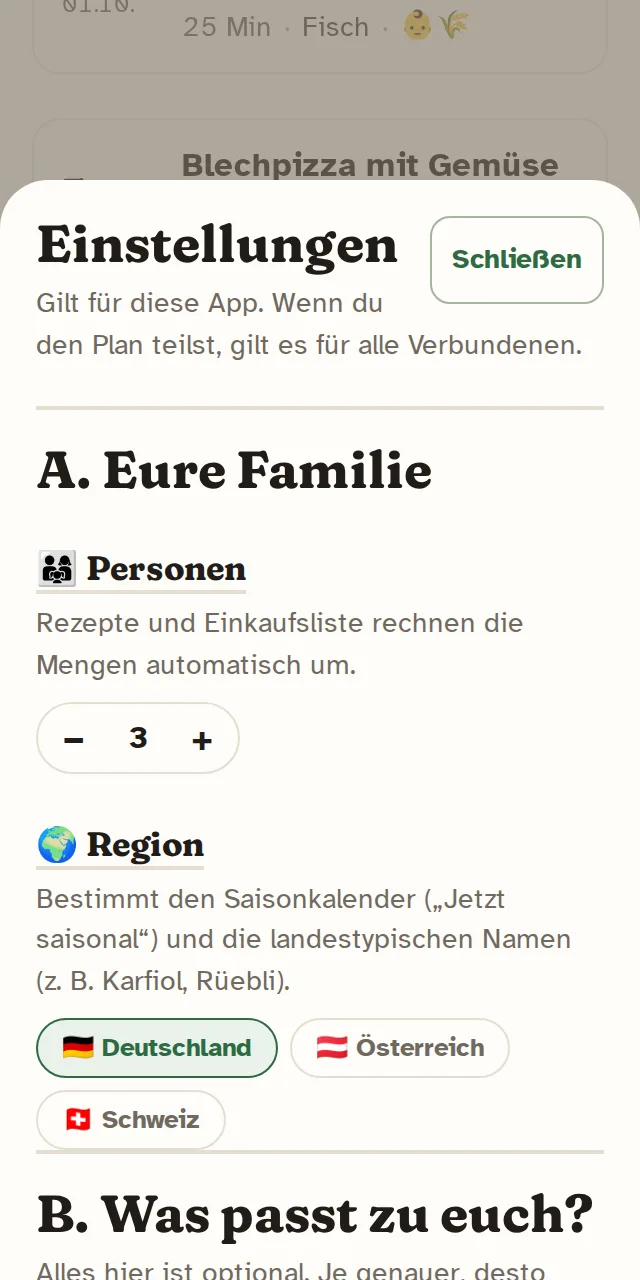
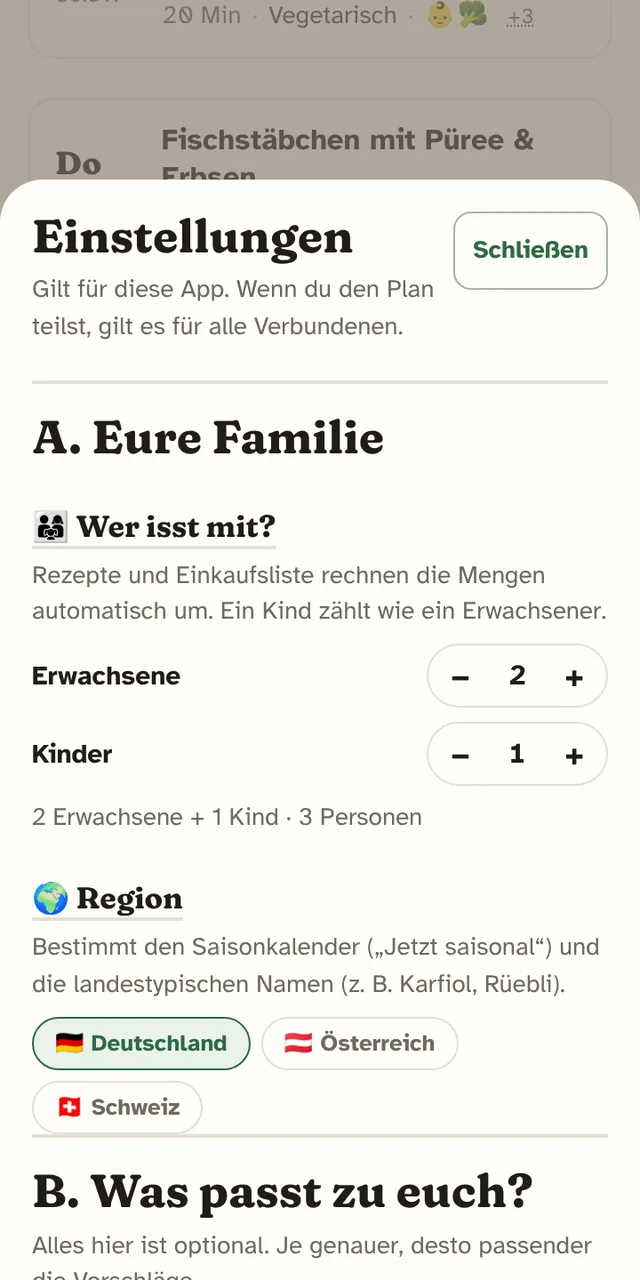
Familie: Erwachsene/Kinder getrennt, Link-Warnung, beschriftete Symbole, Speicherstatus, Beispielwoche – v1.7.0
- Einstellungen und Schnellstart: Erwachsene (1-6) und Kinder (0-6) getrennt, Text passt sich an; ein Kind zählt wie ein Erwachsener; alte Personenzahl wird als 2 Erwachsene + Rest Kinder übernommen
- Familienplan-Dialoge: sichtbare Warnung, dass jede Person mit dem Link den Plan sehen und ändern kann
- Kopfzeile: Hilfe und Einstellungen beschriftet, Wochenmenü als „Mehr“
- Speicherstatus (Anzeige) und Familienplan-Knopf getrennt
- Beispielwoche: Banner mit „Beispiel übernehmen“ / „Eigene Woche starten“, Einkauf als Beispiel gekennzeichnet
- Info-Seite und Anleitung angepasst, Hilfe-Bilder einkauf, einstellungen, teilen erneuert

Claude-Session: https://claude.ai/code/session_01HrXG6nhCsSqGqXY43ysMPn

diff --git a/index.html b/index.html
@@ -122,21 +122,25 @@ header.top{display:flex;flex-wrap:wrap;align-items:flex-end;justify-content:spac
 h1{font-family:var(--display);font-weight:800;font-size:clamp(28px,6vw,40px);line-height:1;margin:0;letter-spacing:-.02em;text-wrap:balance}
 h1 span{color:var(--basil)}
 .sub{color:var(--muted);font-size:14px;margin:6px 0 0}
-.sync{font:700 12px var(--body);color:var(--muted);display:flex;align-items:center;gap:6px;background:var(--surface);border:1px solid var(--line);border-radius:999px;padding:6px 12px;cursor:pointer}
-.sync.warn i{background:var(--mustard)}
-.sync.err i{background:var(--tomato)}
+.syncrow{display:flex;align-items:center;flex-wrap:wrap;gap:6px 10px;margin:8px 0 0}
+.sync-state{display:inline-flex;align-items:center;gap:6px;font:600 13px var(--body);color:var(--ink)}
+.sync-state i{width:8px;height:8px;border-radius:50%;background:var(--muted);display:inline-block}
+.sync-state.ok i{background:var(--basil)}
+.sync-state.warn i{background:var(--mustard)}
+.sync-state.err i{background:var(--tomato)}
+.sync-state:not(.ok):not(.warn):not(.err) i{width:auto;height:auto;border-radius:0;background:none;font-style:normal;line-height:1}
+.sync-state:not(.ok):not(.warn):not(.err) i::before{content:"📱";font-size:14px}
+.sync-btn{font:700 13px var(--body);color:var(--basil);background:var(--surface);border:1.5px solid var(--basil);border-radius:999px;padding:6px 14px;min-height:34px;cursor:pointer}
+.sharewarn{margin:12px 0;padding:10px 12px;border-radius:10px;background:var(--mustard-soft);border:1px solid var(--mustard);color:var(--ink);font-size:14px;line-height:1.45}
+.famrow{display:flex;align-items:center;justify-content:space-between;gap:12px;margin:8px 0}
+.famlbl{font:700 15px var(--body)}
+.exnote .ex-acts{display:flex;flex-wrap:wrap;gap:8px;margin:8px 0 4px}
 .steps{margin:0;padding-left:20px}
 .steps li{margin:6px 0}
 .steps code,.code{font:13px ui-monospace,Menlo,monospace;background:var(--sunk);padding:1px 5px;border-radius:5px;overflow-wrap:anywhere}
 pre.code{display:block;padding:10px;white-space:pre-wrap;margin:6px 0}
 textarea.cfg{width:100%;height:150px;font:13px ui-monospace,Menlo,monospace;background:var(--sunk);color:var(--ink);border:1px solid var(--line);border-radius:10px;padding:10px}
 .err-text{color:var(--tomato);font-size:14px}
-.sync i{width:8px;height:8px;border-radius:50%;background:var(--muted);display:inline-block}
-.sync.ok i{background:var(--basil)}
-.sync:not(.ok):not(.warn):not(.err) i{width:auto;height:auto;border-radius:0;background:none;font-style:normal;line-height:1}
-.sync:not(.ok):not(.warn):not(.err) i::before{content:"📱";font-size:14px}
-.sync:not(.ok):not(.warn):not(.err) b{font-weight:700;color:var(--ink)}
-.sync:not(.ok):not(.warn):not(.err) u{color:var(--basil);font-weight:700;text-decoration:underline;text-underline-offset:2px}
 nav.tabs{position:sticky;top:env(safe-area-inset-top,0px);z-index:5;background:var(--ground);display:flex;gap:6px;padding-block:8px;margin-bottom:10px}
 nav.tabs button{flex:1;font:700 15px var(--body);border:1px solid var(--line);background:var(--surface);color:var(--ink);padding:10px 8px;border-radius:999px;cursor:pointer;display:flex;align-items:center;justify-content:center;gap:6px}
 nav.tabs button[aria-selected="true"]{background:var(--basil);color:var(--basil-ink);border-color:var(--basil)}
@@ -317,7 +321,6 @@ body{line-height:1.5}
 .wrap{padding-block:24px 72px}
 h1{font-weight:700;font-size:clamp(26px,6vw,34px);letter-spacing:-.025em}
 .sub{font-size:13px;line-height:1.45}
-.sync{background:transparent;font-weight:400}
 /* Tabs als ruhige Segment-Leiste */
 nav.tabs{background:var(--ground);padding-block:10px;margin-bottom:14px}
 nav.tabs{gap:0}
@@ -668,6 +671,8 @@ details.cp-wk summary{cursor:pointer;min-height:44px;display:flex;align-items:ce
 .wkmenu{margin-left:auto;position:relative}
 .wkmenu summary{list-style:none;cursor:pointer;width:40px;height:40px;display:grid;place-items:center;border-radius:50%;border:1px solid var(--line);font-size:20px;line-height:1;color:var(--muted)}
 .wkmenu summary::-webkit-details-marker{display:none}
+#wkMenu summary{width:auto;padding:0 14px;border-radius:999px;display:inline-flex;align-items:center;gap:6px}
+#wkMenu summary .wk-l{font:600 13px var(--body);color:var(--muted)}
 .wkmenu-pop{position:absolute;right:0;top:46px;z-index:5;background:var(--surface);border:1px solid var(--line);border-radius:12px;box-shadow:var(--shadow);padding:6px;min-width:170px}
 .wkmenu-pop button{width:100%;text-align:left}
 .weektop{display:flex;flex-direction:column;gap:12px;margin-bottom:12px}
@@ -730,11 +735,12 @@ header.top .ttl{width:100%}
 header.top #helpBtn{margin-left:auto}
 header.top .ttl{gap:10px;align-items:center}
 header.top .logo{flex:none;width:38px;height:38px;border-radius:10px;display:block}
-header.top .helpbtn{align-self:flex-end;margin-bottom:-2px}
+header.top .helpbtn{align-self:flex-end;margin-bottom:-2px;width:auto;height:auto;min-width:40px;border-radius:12px;padding:4px 6px 3px;flex-direction:column;align-items:center;justify-content:center;display:flex;gap:2px}
+header.top .helpbtn .hb-i{font:800 16px/1 var(--body)}
+header.top .helpbtn .hb-l{font:600 10px/1.1 var(--body);color:var(--muted);letter-spacing:.01em}
 header.top .ttltx{min-width:0}
 header.top h1{font-size:clamp(22px,6.8vw,28px);line-height:1.05;white-space:nowrap}
 header.top .tag{margin:3px 0 0;font-size:13px;font-weight:500;color:var(--muted);line-height:1.25}
-header.top .sync{display:flex;width:max-content;max-width:100%;margin:6px 0 0;padding:2px 0;border:0;background:transparent;font-size:13px;font-weight:500;min-height:0}
 .db-acts{align-items:center;gap:4px}
 .db-acts .btn.primary{flex:0 0 auto;padding:8px 16px}
 .db-acts .btn.textbtn{flex:0 0 auto;border-color:transparent;background:transparent;color:var(--basil);padding:6px 7px;font-weight:600;font-size:12.5px;min-height:40px;gap:3px}
@@ -953,10 +959,13 @@ header.top .sync{display:flex;width:max-content;max-width:100%;margin:6px 0 0;pa
     <div class="ttl">
       <img class="logo" src="icon.png" alt="" width="38" height="38">
       <div class="ttltx"><h1>Was <span>essen</span> wir?</h1><p class="tag">Familien-Wochenplan &amp; Einkaufsliste</p></div>
-      <button class="helpbtn" id="helpBtn" type="button" aria-label="Anleitung öffnen" title="Anleitung">?</button>
-      <button class="helpbtn" id="setBtn" type="button" aria-label="Einstellungen" title="Einstellungen">⚙</button>
+      <button class="helpbtn" id="helpBtn" type="button" aria-label="Anleitung öffnen" title="Anleitung"><span class="hb-i" aria-hidden="true">?</span><span class="hb-l">Hilfe</span></button>
+      <button class="helpbtn" id="setBtn" type="button" aria-label="Einstellungen" title="Einstellungen"><span class="hb-i" aria-hidden="true">⚙</span><span class="hb-l">Einstellungen</span></button>
     </div>
-    <button class="sync" id="sync" type="button"><i></i><span><b>Nur auf diesem Gerät gespeichert</b> · <u>Familie einladen</u></span></button>
+    <div class="syncrow">
+      <span class="sync-state" id="syncState"><i aria-hidden="true"></i><b id="syncStateTx">Nur auf diesem Gerät</b></span>
+      <button class="sync-btn" id="sync" type="button">Familienplan einrichten</button>
+    </div>
   </header>
 
   <nav class="tabs" role="tablist">
@@ -978,7 +987,7 @@ header.top .sync{display:flex;width:max-content;max-width:100%;margin:6px 0 0;pa
       <p class="hero-trust">🔒 Kein Konto nötig · 🚫 Keine Werbung · 🏠 Eure Angaben bleiben zunächst auf diesem Gerät</p>
     </div>
     <div class="weekhead"><h2 id="weekTitle">Diese Woche</h2><span id="weekRange"></span>
-      <details class="wkmenu" id="wkMenu"><summary aria-label="Weitere Aktionen" title="Weitere Aktionen">⋯</summary><div class="wkmenu-pop"><button type="button" id="copyWeek">Woche kopieren …</button><button type="button" id="newWeek">Plan leeren</button></div></details></div>
+      <details class="wkmenu" id="wkMenu"><summary aria-label="Weitere Aktionen" title="Weitere Aktionen"><span aria-hidden="true">⋯</span><span class="wk-l">Mehr</span></summary><div class="wkmenu-pop"><button type="button" id="copyWeek">Woche kopieren …</button><button type="button" id="newWeek">Plan leeren</button></div></details></div>
     <div class="seg wk-switch" role="group" aria-label="Woche wählen"><button type="button" id="wkThis" aria-pressed="true">Diese Woche</button><button type="button" id="wkNext" aria-pressed="false">Nächste Woche</button></div>
     <div class="hints" id="hints" hidden></div>
     <div class="weekbar">
@@ -987,12 +996,15 @@ header.top .sync{display:flex;width:max-content;max-width:100%;margin:6px 0 0;pa
     </div>
     <div class="note qs-note" id="qsNote" hidden></div>
     <p class="empty-hint" id="emptyHint" hidden>Noch nichts geplant. Ein Tipp auf „Woche planen“, und der Abend ist gerettet.</p>
-    <div class="note" id="exampleNote" hidden>👋 Beispielwoche · Tippen zum Öffnen · 🎲 Gericht tauschen<br><button type="button" class="linkbtn" id="noteHelp">Anleitung ansehen</button></div>
+    <div class="note exnote" id="exampleNote" hidden><b>👋 Beispielwoche</b> – noch nicht eure Planung. Tippen zum Öffnen, 🎲 tauscht ein Gericht.
+      <div class="ex-acts"><button type="button" class="btn small primary" id="exTake">Beispiel übernehmen</button><button type="button" class="btn small" id="exOwn">Eigene Woche starten</button></div>
+      <button type="button" class="linkbtn" id="noteHelp">Anleitung ansehen</button></div>
     <div class="week" id="week"></div>
     <div class="balance" id="balance" hidden></div>
   </section>
 
   <section id="p-einkauf" hidden>
+    <div class="note exnote" id="exampleShopNote" hidden><b>Beispiel</b> – das ist noch nicht eure Einkaufsliste, sie gehört zur Beispielwoche.</div>
     <div class="shopdays">
       <div class="sd-top"><span class="lbl">Einkaufen für</span>
         <span class="sd-quick"><button class="btn small" id="selToday">Ab heute</button><button class="btn small" id="selNext2">Heute + morgen</button><button class="btn small ghost" id="selAll">Alle</button></span></div>
@@ -3107,7 +3119,7 @@ function lsSet(v,k=LS){ try{ localStorage.setItem(k, JSON.stringify(v)); }catch(
 function lsDel(k){ try{ localStorage.removeItem(k); }catch(e){} }
 function clone(o){ return JSON.parse(JSON.stringify(o)); }
 /* Filter: standardmäßig nur auf diesem Gerät (Schalter in den Einstellungen); der Vorrat wird immer geteilt */
-const LOCAL_KEYS = ["persons","fav","excl","maxT","allerg","region","meat","nogo"];
+const LOCAL_KEYS = ["persons","adults","kids","fav","excl","maxT","allerg","region","meat","nogo"];
 function shareOn(){ try{ return localStorage.getItem("essensplan-share")==="1"; }catch(e){ return false; } }
 function maskLocal(st, ref){   // st mit den Remote-Werten (ref) für lokale Felder
   const o = clone(st), r = ref||{};
@@ -3165,11 +3177,10 @@ function parseConfig(text){
 function loadScript(src){ return new Promise((res,rej)=>{ const s=document.createElement("script"); s.src=src; s.onload=res; s.onerror=rej; document.head.appendChild(s); }); }
 
 function setSync(kind, text){
-  const el = document.getElementById("sync");
-  el.className = "sync " + kind;
-  const sp = el.querySelector("span");
-  if(kind===""){ sp.innerHTML = "<b>Nur auf diesem Gerät gespeichert</b> · <u>Familie einladen</u>"; }
-  else sp.textContent = text;
+  /* Anzeige (Speicherort/Zustand) und Knopf (Familienplan einrichten bzw. verwalten) sind getrennt */
+  document.getElementById("syncState").className = "sync-state " + kind;
+  document.getElementById("syncStateTx").textContent = kind==="" ? "Nur auf diesem Gerät" : text;
+  document.getElementById("sync").textContent = sync ? "Familie verwalten" : "Familienplan einrichten";
 }
 let lastSyncAt = +(localStorage.getItem("essensplan-lastsync")||0) || 0;
 function markSynced(){ lastSyncAt = Date.now(); try{ localStorage.setItem("essensplan-lastsync", String(lastSyncAt)); }catch(e){} }
@@ -3180,9 +3191,9 @@ function syncAgo(){
   return d.toLocaleDateString("de-DE",{day:"2-digit",month:"2-digit"})+", "+t+" Uhr";
 }
 function syncLabel(){
-  if(!sync) setSync("", "Plan nur hier gespeichert · Familie einladen");
+  if(!sync) setSync("", "");
   else if(!navigator.onLine) setSync("warn", "Offline · wird später abgeglichen");
-  else if(online) setSync("ok", "Mit Familie geteilt");
+  else if(online) setSync("ok", "Familienplan aktiv");
   else setSync("warn", "Familienplan · offline");
   offNote();
 }
@@ -3374,7 +3385,15 @@ function nogoHits(d){
   const key = d.id+"|"+l.join(","); if(_ng.has(key)) return _ng.get(key);
   const r = l.filter(t=>d.i.some(x=>frMatch(t,String(x[2])))); _ng.set(key,r); return r;
 }
-function S(){ const v = state.settings||{}; return {persons: +v.persons||3, fav: Array.isArray(v.fav)?v.fav:[], excl: Array.isArray(v.excl)?v.excl:[], maxT: v.maxT===0?0:(+v.maxT||30), allerg: Array.isArray(v.allerg)?v.allerg:[], region: ["DE","AT","CH"].includes(v.region)?v.region:"DE", meat: MEAT_CAP[v.meat]!==undefined?v.meat:"mittel", nogo: Array.isArray(v.nogo)?v.nogo.filter(x=>typeof x==="string"):[]}; }
+/* Familie: Erwachsene + Kinder (ein Kind zählt in den Mengen wie ein Erwachsener); „persons“ bleibt die Summe */
+function famSplit(v){
+  if(v.adults!==undefined && v.adults!==null){ const a=Math.min(6,Math.max(1,Math.round(+v.adults)||1)), k=Math.min(6,Math.max(0,Math.round(+v.kids)||0)); return [a,k]; }
+  const p = Math.min(12,Math.max(1,Math.round(+v.persons)||3)), a = Math.min(2,p);   /* ältere Einstellungen: 2 Erwachsene + Rest Kinder */
+  return [a,p-a];
+}
+function famText(a,k){ const A = a===1?"1 Erwachsener":a+" Erwachsene"; return k ? A+" + "+(k===1?"1 Kind":k+" Kinder") : A; }
+function setFamily(a,k){ a=Math.min(6,Math.max(1,a)); k=Math.min(6,Math.max(0,k)); state.settings = {...(state.settings||{}), adults:a, kids:k, persons:a+k}; commit(); }
+function S(){ const v = state.settings||{}; const [adults,kids] = famSplit(v); return {persons: adults+kids, adults, kids, fav: Array.isArray(v.fav)?v.fav:[], excl: Array.isArray(v.excl)?v.excl:[], maxT: v.maxT===0?0:(+v.maxT||30), allerg: Array.isArray(v.allerg)?v.allerg:[], region: ["DE","AT","CH"].includes(v.region)?v.region:"DE", meat: MEAT_CAP[v.meat]!==undefined?v.meat:"mittel", nogo: Array.isArray(v.nogo)?v.nogo.filter(x=>typeof x==="string"):[]}; }
 function setSetting(k,v){ state.settings = {...(state.settings||{}), [k]:v}; commit(); }
 const _blk = new Map();
 function blockedAllergens(d){
@@ -3506,6 +3525,7 @@ function renderWeek(){
   $("#wkThis").setAttribute("aria-pressed",String(!viewWeek)); $("#wkNext").setAttribute("aria-pressed",String(!!viewWeek));
   $("#wkThis").textContent = "Diese Woche"; $("#wkNext").textContent = "Nächste Woche";
   $("#exampleNote").hidden = !isExample || !!viewWeek;
+  $("#exampleShopNote").hidden = !isExample;
   try{ qsNoteRender(); }catch(e){}
   $("#hero").hidden = !isExample || !!viewWeek || heroClosed();
   { const e = DAYS.filter((_,i)=>i>=today && !(typeof state.days[i+O]==="string" && dish(state.days[i+O])) && !(state.days[i+O]&&state.days[i+O].custom)).length;
@@ -4028,7 +4048,7 @@ const FAV_OPTS = [["veg","🌱 Vegetarisch"],["fisch","🐟 Fisch"],["fleisch","
 /* ---------- Pro-Tipps: ein Tipp pro Tag, der Reihe nach, nur beim Start; abschaltbar (pro Gerät) ---------- */
 const TIPS = [["Kochmodus", "Tippe im Rezept auf „Kochmodus“: große Schrift, Zutaten und Schritte zum Abhaken, der Bildschirm bleibt an. Wenn du etwas abhakst, scrollt es von selbst zum Nächsten."], ["Einkauf", "Das 🏠 hinter einer Zutat in der Einkaufsliste nimmt sie von der Liste, weil ihr sie zuhause habt. „Nur diesmal“ und „Angebrochen“ holst du unter „Schon zuhause“ mit dem 🛒 zurück."], ["Personenzahl", "Im Rezept änderst du mit − und + die Personenzahl. Die Zutaten und die Mengen in den Schritten rechnen sich automatisch mit um."], ["Vorrat", "Zutaten, die immer da sind, zum Beispiel Zwiebeln: Tippe in der Einkaufsliste beim 🏠 auf „Immer“. Dann tauchen sie nie wieder auf der Liste auf, beeinflussen aber keine Rezeptvorschläge. Ändern kannst du das unter „Vorrat anpassen“ ganz unten in der Liste."], ["Alltag-Filter", "Unter Ideen findest du bei „Alle Filter“ den Reiter „Zeit & Alltag“: zum Beispiel Ofengericht, ein Topf, gut einzufrieren oder mit wenigen Zutaten."], ["Supermarkt", "Die Einkaufsliste lässt sich nach Abteilung sortieren. In den Einstellungen stellst du die Reihenfolge so ein, wie euer Supermarkt aufgebaut ist."], ["Reste", "„Was haben wir noch zuhause?“ in den Ideen: Tippe ein, was im Kühlschrank liegt, und die App zeigt dir Gerichte, die dazu passen."], ["Liste teilen", "Mit „Teilen“ in der Einkaufsliste schickst du die offenen Artikel zum Beispiel direkt an Google Keep oder an deine Familie."], ["Link teilen", "Tippe im Rezept auf „Link teilen“, um es per Nachricht zu verschicken. Wer den Link öffnet, sieht sofort das Rezept."], ["Zutaten kopieren", "Im Rezept kopiert „Zutaten kopieren“ die Mengen für eure Personenzahl, bereit zum Einfügen in eine Notiz oder eine Listen-App."], ["Leere Tage", "Mit „Leere Tage füllen“ schlägt die App für alle freien Tage Gerichte vor. Unter der Woche sind es nur schnelle Gerichte, bevorzugt vegetarisch."], ["Design", "In den Einstellungen wählst du zwischen hellem und dunklem Design, oder die App folgt automatisch deinem Handy."], ["Notiz", "Im Rezept hältst du unter „Unsere Notiz“ fest, was ihr beim nächsten Mal anders macht, zum Beispiel weniger Salz."], ["Lieblinge", "In den Einstellungen wählst du Lieblingskategorien. Sie kommen beim Würfeln und bei „Leere Tage füllen“ öfter dran."], ["Einsenden", "Unter Ideen kannst du über „Rezept hinzufügen“ ein Rezept als Foto, PDF oder Link einsenden. Nach der Prüfung steht es für alle in der App."], ["Bewerten", "Nach dem Essen fragt die App, wie es geschmeckt hat. Mit 👍 und 👎 merkt ihr euch eure Favoriten."], ["Offline", "Öffne die App einmal mit Netz und danach noch einmal: Dann startet sie auch ohne Empfang. Im Supermarkt kannst du die Einkaufsliste abhaken und ergänzen, beim nächsten Netz gleicht sie sich ab."], ["Eigene Filter", "Allergene und Vorlieben gelten standardmäßig nur auf deinem Handy. Mit dem Schalter „Filter mit Familie teilen“ in den Einstellungen nutzt ihr sie gemeinsam. Der Vorrat wird immer geteilt."], ["Sicherung", "Unter Einstellungen → Daten sichern speicherst du Plan, eigene Rezepte und Einstellungen als Datei, zum Beispiel vor einem Handywechsel."]];
 const LS_TIPS = "essensplan-tips";
-const APP_VERSION = "v1.6.1";
+const APP_VERSION = "v1.7.0";
 const LS_HERO = "essensplan-hero";
 function heroClosed(){ try{ return !!localStorage.getItem(LS_HERO); }catch(e){ return false; } }
 function heroClose(){ try{ localStorage.setItem(LS_HERO,"1"); }catch(e){} $("#hero").hidden = true; }
@@ -4066,9 +4086,11 @@ function openSettings(toPantry){
     ${sync?`<div class="sharebox"><div class="filters" id="setShare"><button type="button" data-shareflt="1" aria-pressed="${shareOn()}">Filter mit Familie teilen: ${shareOn()?"An":"Aus"}</button></div>
     <p class="sub">${shareOn()?"Filter, Allergene und Vorlieben sind auf allen verbundenen Handys gleich.":"Filter, Allergene und Vorlieben gelten nur auf diesem Handy. Plan, Einkaufsliste, Rezepte und Vorrat bleiben gemeinsam."}</p></div>`:""}
     <h2 class="set-grp">A. Eure Familie</h2>
-    <h3>👨👩👧 Personen</h3>
-    <p class="sub">Rezepte und Einkaufsliste rechnen die Mengen automatisch um.</p>
-    <div class="stepper" role="group" aria-label="Personen"><button type="button" data-setp="-1" aria-label="Eine Person weniger">−</button><span id="setPers">${s.persons}</span><button type="button" data-setp="1" aria-label="Eine Person mehr">+</button></div>
+    <h3>👨👩👧 Wer isst mit?</h3>
+    <p class="sub">Rezepte und Einkaufsliste rechnen die Mengen automatisch um. Ein Kind zählt wie ein Erwachsener.</p>
+    <div class="famrow"><span class="famlbl">Erwachsene</span><div class="stepper" role="group" aria-label="Erwachsene"><button type="button" data-seta="-1" aria-label="Einen Erwachsenen weniger">−</button><span id="setAdults">${s.adults}</span><button type="button" data-seta="1" aria-label="Einen Erwachsenen mehr">+</button></div></div>
+    <div class="famrow"><span class="famlbl">Kinder</span><div class="stepper" role="group" aria-label="Kinder"><button type="button" data-setk="-1" aria-label="Ein Kind weniger">−</button><span id="setKids">${s.kids}</span><button type="button" data-setk="1" aria-label="Ein Kind mehr">+</button></div></div>
+    <p class="sub" id="setFamTxt">${famText(s.adults,s.kids)} · ${s.persons} Person${s.persons>1?"en":""}</p>
     <h3>🌍 Region</h3>
     <p class="sub">Bestimmt den Saisonkalender („Jetzt saisonal“) und die landestypischen Namen (z. B. Karfiol, Rüebli).</p>
     <div class="filters" id="setRegion">${REGIONS.map(([k,l])=>`<button type="button" data-setregion="${k}" aria-pressed="${s.region===k}">${l}</button>`).join("")}</div>
@@ -4141,7 +4163,9 @@ function openSettings(toPantry){
     if(b.id==="pnAdd"||b.id==="ngAdd") return;
     if(b.dataset.ng){ setSetting("nogo",cur.nogo.filter(x=>x!==b.dataset.ng)); drawNogo(); return; }
     if(b.dataset.meat){ setSetting("meat",b.dataset.meat); document.querySelectorAll("#setMeat button").forEach(x=>x.setAttribute("aria-pressed",String(x===b))); return; }
-    if(b.dataset.setp){ const n=Math.min(12,Math.max(1,cur.persons+(+b.dataset.setp))); setSetting("persons",n); $("#setPers").textContent=n; }
+    if(b.dataset.seta||b.dataset.setk){
+      setFamily(cur.adults+(+b.dataset.seta||0), cur.kids+(+b.dataset.setk||0));
+      const n=S(); $("#setAdults").textContent=n.adults; $("#setKids").textContent=n.kids; $("#setFamTxt").textContent=`${famText(n.adults,n.kids)} · ${n.persons} Person${n.persons>1?"en":""}`; }
     else if(b.dataset.fav){ const k=b.dataset.fav;
       if(cur.excl.includes(k)){ exclToggle(k,true); return; }
       const v=tog(cur.fav,k); setSetting("fav",v); b.setAttribute("aria-pressed",String(v.includes(k))); }
@@ -4242,11 +4266,11 @@ function openHelp(first){
     </details>
     <details><summary>⚙ Einstellungen</summary>
       ${img("einstellungen","Einstellungen")}
-      <p>Über das <b>⚙</b> oben neben dem Titel. Filter, Allergene, Vorlieben, Region und Personenzahl gelten <b>nur auf deinem Gerät</b>, außer du schaltest oben <b>„Filter mit Familie teilen“</b> ein (nur sichtbar, wenn ihr einen gemeinsamen Plan nutzt). Design, Tipps und Hinweise gelten immer nur für dein Gerät.</p>
+      <p>Über das <b>⚙</b> oben neben dem Titel. Filter, Allergene, Vorlieben, Region sowie Erwachsene und Kinder gelten <b>nur auf deinem Gerät</b>, außer du schaltest oben <b>„Filter mit Familie teilen“</b> ein (nur sichtbar, wenn ihr einen gemeinsamen Plan nutzt). Design, Tipps und Hinweise gelten immer nur für dein Gerät.</p>
       <ul>
         <li><b>🎨 Design:</b> Hell, Dunkel oder wie dein Handy. Gilt nur für dieses Gerät.</li>
         <li><b>💡 Tipps:</b> Einmal am Tag zeigt die App beim Start einen kurzen Pro-Tipp, der Reihe nach. Hier schaltest du sie aus und wieder ein. Gilt nur für dieses Gerät.</li>
-        <li><b>Personen:</b> Rezepte und Einkaufsliste rechnen alle Mengen darauf um.</li>
+        <li><b>Erwachsene und Kinder:</b> Rezepte und Einkaufsliste rechnen alle Mengen darauf um. Ein Kind zählt wie ein Erwachsener.</li>
         <li><b>🥩 Fleisch &amp; Fisch:</b> wie oft pro Woche es Fleisch oder Fisch geben darf. Das steuert Würfeln, „Leere Tage füllen“ und den Plan-Assistenten.</li>
         <li><b>🚫 Mögen wir nicht:</b> Zutaten, die ihr nicht mögt. Gerichte damit werden nicht mehr vorgeschlagen.</li>
         <li><b>Kategorien ausschließen:</b> eine Kategorie im Ideen-Filter oder bei den Lieblingskategorien in ⚙ lange drücken. Solche Gerichte werden nicht vorgeschlagen; selbst gewählte und schon geplante bleiben. Nochmal tippen hebt es auf.</li>
@@ -4263,7 +4287,7 @@ function openHelp(first){
     <details><summary>👨👩👧 Gemeinsam planen</summary>
       ${img("teilen","Gemeinsamen Plan starten")}
       <ul>
-        <li>Tipp oben auf <b>„Nur auf diesem Gerät gespeichert · Familie einladen“</b> → <b>„Gemeinsamen Plan starten“</b>.</li>
+        <li>Tipp oben auf <b>„Familienplan einrichten“</b> → <b>„Gemeinsamen Plan starten“</b>.</li>
         <li>Schick den <b>Einladungslink</b> an deinen Partner. Wer ihn öffnet, sieht denselben Plan, dieselbe Einkaufsliste und dieselben 👍/👎 – Änderungen erscheinen sofort bei allen.</li>
         <li>Geteilt werden Wochenplan, Einkaufsliste, Vorrat, Rezepte, Notizen und Bewertungen. <b>Filter, Allergene und Vorlieben gelten standardmäßig nur auf deinem Handy</b> – in ⚙ kannst du sie mit dem Schalter „Filter mit Familie teilen“ gemeinsam nutzen.</li>
         <li>Jede Familie hat ihren eigenen, privaten Plan. Teile den Link nur mit der Familie.</li>
@@ -4576,6 +4600,12 @@ document.addEventListener("change",e=>{
 document.addEventListener("keydown",e=>{ if(e.key==="Escape") closeSheet(); if(e.key==="Enter" && e.target.id==="customDish"){ const b=document.querySelector("[data-custom]"); b&&b.click(); } });
 
 $("#noteHelp").addEventListener("click",()=>openHelp(false));
+/* Beispielwoche: übernehmen (wird eure Woche) oder leer starten */
+$("#exTake").addEventListener("click",()=>{ heroClose(); commit(true); toast("Die Beispielwoche ist jetzt eure Woche"); });
+$("#exOwn").addEventListener("click",()=>{
+  state = {days:{},checked:{},hidden:{},extras:{},recipes:state.recipes||{},likes:state.likes||{},cooked:state.cooked||{},notes:state.notes||{},settings:state.settings||{},pantry:state.pantry||{}};
+  heroClose(); commit(true); toast("Leere Woche – „Woche planen“ füllt sie für euch");
+});
 
 /* ---------- Schnellstart (5 Fragen) und „Nur etwas für heute“ ---------- */
 const QS_FAV = [["kinder","👶 Kinderlieblinge"],["schnell","⏱ Schnell fertig"],["veg","🌱 Vegetarisch"],["az-t","🍲 Ein Topf / eine Pfanne"],["az-v","🍱 Gut zum Vorkochen"],["az-vorrat","🛍 Mit Vorräten machbar"],["b1","💶 Günstig"]];
@@ -4583,11 +4613,11 @@ const QS_ALG = ["gluten","ei","milch","fisch","soja","erdnuss"];
 const QS_TIME = [[20,"Bis 20 Minuten"],[30,"Bis 30 Minuten"],[45,"Bis 45 Minuten"],[0,"Unterschiedlich / egal"]];
 const LS_QSNOTE = "essensplan-qsnote";
 let qs = null, qsMore = false;
-function qsInit(){ const c=S(); qs = {persons:c.persons, fav:new Set(c.fav.filter(k=>QS_FAV.some(x=>x[0]===k))), allerg:new Set(c.allerg), nogo:[...c.nogo], maxT:c.maxT, meat:c.meat}; }
+function qsInit(){ const c=S(); qs = {adults:c.adults, kids:c.kids, fav:new Set(c.fav.filter(k=>QS_FAV.some(x=>x[0]===k))), allerg:new Set(c.allerg), nogo:[...c.nogo], maxT:c.maxT, meat:c.meat}; }
 const qsTog = (set,k)=>{ if(set.has(k)) set.delete(k); else set.add(k); };
 function qsProg(n){ return `<p class="qs-prog">Schritt ${n} von 5 <span aria-hidden="true">${[1,2,3,4,5].map(i=>i<=n?"●":"○").join(" ")}</span></p>`; }
 function qsSummary(){
-  const p=[`${qs.persons} Person${qs.persons>1?"en":""}`, qs.maxT?`bis ${qs.maxT} Minuten`:"Zeit egal"];
+  const p=[famText(qs.adults,qs.kids), qs.maxT?`bis ${qs.maxT} Minuten`:"Zeit egal"];
   QS_FAV.filter(x=>qs.fav.has(x[0])).forEach(x=>p.push(x[1].replace(/^\S+\s/,"")));
   p.push(qs.allerg.size?`Ohne ${[...qs.allerg].map(k=>(ALLERGENS.find(a=>a[0]===k)||[0,0,k])[2]).join(", ")}`:"Keine Allergene ausgewählt");
   if(qs.nogo.length) p.push(`Nicht gewünscht: ${qs.nogo.join(", ")}`);
@@ -4606,9 +4636,10 @@ function openQuickstart(step){
   const nav = (back,next,label)=>`<div class="qs-foot">${back?`<button type="button" class="btn" data-qs="to${back}">Zurück</button>`:""}<button type="button" class="btn primary" data-qs="to${next}">${label||"Weiter"}</button></div>${skip}`;
   let h;
   if(step===1){
-    h=`${qsProg(1)}<h2>Für wie viele Personen kocht ihr meistens?</h2>
-    <div class="stepper" role="group" aria-label="Personen"><button type="button" data-qs="pm" aria-label="Eine Person weniger">−</button><span id="qsPers">${qs.persons}</span><button type="button" data-qs="pp" aria-label="Eine Person mehr">+</button></div>
-    <p class="sub">2 Erwachsene + 1 Kind – du kannst das jederzeit ändern.</p>${nav(0,2)}`;
+    h=`${qsProg(1)}<h2>Wer isst meistens mit?</h2>
+    <div class="famrow"><span class="famlbl">Erwachsene</span><div class="stepper" role="group" aria-label="Erwachsene"><button type="button" data-qs="am" aria-label="Einen Erwachsenen weniger">−</button><span id="qsAdults">${qs.adults}</span><button type="button" data-qs="ap" aria-label="Einen Erwachsenen mehr">+</button></div></div>
+    <div class="famrow"><span class="famlbl">Kinder</span><div class="stepper" role="group" aria-label="Kinder"><button type="button" data-qs="km" aria-label="Ein Kind weniger">−</button><span id="qsKids">${qs.kids}</span><button type="button" data-qs="kp" aria-label="Ein Kind mehr">+</button></div></div>
+    <p class="sub" id="qsFamTxt">${famText(qs.adults,qs.kids)} – du kannst das jederzeit ändern. Ein Kind zählt in den Mengen wie ein Erwachsener.</p>${nav(0,2)}`;
   } else if(step===2){
     h=`${qsProg(2)}<h2>Was soll bei euren Gerichten häufiger vorkommen?</h2>
     <div class="qs-chips" id="qsFav">${QS_FAV.map(([k,l])=>`<button type="button" data-qsf="${k}" aria-pressed="${qs.fav.has(k)}">${l}</button>`).join("")}<button type="button" data-qsf="" class="qs-none" aria-pressed="${!qs.fav.size}">Nichts festlegen</button></div>
@@ -4643,7 +4674,7 @@ function openQuickstart(step){
 function qsDrawNogo(){ const el=$("#qsNogo"); if(el) el.innerHTML = qs.nogo.map((k,i)=>`<button type="button" data-qsn="${i}" aria-label="${esc(k)} entfernen">${esc(k)} ×</button>`).join(""); }
 function qsApply(){
   const c=S(), keepFav=c.fav.filter(k=>!QS_FAV.some(x=>x[0]===k));
-  state.settings = {...(state.settings||{}), persons:qs.persons, fav:[...keepFav,...qs.fav], allerg:[...qs.allerg], nogo:[...qs.nogo], maxT:qs.maxT, meat:qs.meat};
+  state.settings = {...(state.settings||{}), adults:qs.adults, kids:qs.kids, persons:qs.adults+qs.kids, fav:[...keepFav,...qs.fav], allerg:[...qs.allerg], nogo:[...qs.nogo], maxT:qs.maxT, meat:qs.meat};
 }
 function qsBuildWeek(){
   qsApply();
@@ -4674,7 +4705,8 @@ $("#sheetRoot").addEventListener("click",e=>{
   if(b.dataset.qs){ const a=b.dataset.qs;
     if(a==="skip"||a==="nosave"){ heroClose(); closeSheet(); qs=null; return; }
     if(a==="build"){ qsBuildWeek(); qs=null; return; }
-    if(a==="pm"||a==="pp"){ qs.persons=Math.min(12,Math.max(1,qs.persons+(a==="pp"?1:-1))); $("#qsPers").textContent=qs.persons; return; }
+    if(a==="am"||a==="ap"){ qs.adults=Math.min(6,Math.max(1,qs.adults+(a==="ap"?1:-1))); $("#qsAdults").textContent=qs.adults; $("#qsFamTxt").textContent=`${famText(qs.adults,qs.kids)} – du kannst das jederzeit ändern. Ein Kind zählt in den Mengen wie ein Erwachsener.`; return; }
+    if(a==="km"||a==="kp"){ qs.kids=Math.min(6,Math.max(0,qs.kids+(a==="kp"?1:-1))); $("#qsKids").textContent=qs.kids; $("#qsFamTxt").textContent=`${famText(qs.adults,qs.kids)} – du kannst das jederzeit ändern. Ein Kind zählt in den Mengen wie ein Erwachsener.`; return; }
     if(a==="more"){ qsMore=true; openQuickstart(3); return; }
     if(a==="ngadd"){ const inp=$("#qsNgIn"), v=inp.value.trim().slice(0,40); if(v && !qs.nogo.some(x=>x.toLowerCase()===v.toLowerCase())) qs.nogo.push(v); inp.value=""; qsDrawNogo(); return; }
     if(/^to\d$/.test(a)){ if(step===3){ const inp=$("#qsNgIn"), v=inp&&inp.value.trim().slice(0,40); if(v && !qs.nogo.some(x=>x.toLowerCase()===v.toLowerCase())) qs.nogo.push(v); } openQuickstart(+a[2]); return; }
@@ -5199,9 +5231,9 @@ function openSyncSheet(){
       </div>
       <p class="sub">Alle Änderungen werden automatisch synchronisiert. Ein Handy-Wechsel ist einfach: Link öffnen, fertig. Zusätzlich könnt ihr unter ⚙ Einstellungen eine Sicherung speichern.</p>
       <p>Öffne diesen Link auf jedem Handy, das mitplanen soll. Danach sehen alle denselben Wochenplan und dieselbe Einkaufsliste.</p>
+      <div class="sharewarn" role="note"><b>Wichtig:</b> Jede Person mit diesem Link kann euren Wochenplan und die Einkaufsliste sehen und ändern. Teilt ihn nur mit eurer Familie.</div>
       <pre class="code" id="joinLinkText">${esc(link)}</pre>
       <div class="bar"><button class="btn primary" id="copyJoin">Familien-Link kopieren</button></div>
-      <p class="sub">Wer den Link hat, kann den Plan sehen und ändern. Schick ihn nur an die Familie.</p>
       <h3>Dieses Handy trennen</h3>
       <p class="sub">Der Plan bleibt online erhalten, dieses Handy plant dann wieder nur für sich.</p>
       <button class="btn" id="disconnect">Trennen</button>
@@ -5218,6 +5250,7 @@ function openSyncSheet(){
     <div class="syncinfo"><div><span>Status</span><b>Nur auf diesem Gerät gespeichert</b></div><div><span>Zugriff</span><b>Nur du auf diesem Gerät</b></div></div>
     <p>Dein Plan ist aktuell nur auf diesem Gerät gespeichert. Zum gemeinsamen Planen lädst du deine Familie ein: Alle sehen denselben Wochenplan, dieselbe Einkaufsliste und dieselben 👍/👎.</p>
     <p><b>Hast du schon einen Familien-Link bekommen?</b> Dann öffne einfach den Link – fertig.</p>
+    <div class="sharewarn" role="note"><b>Wichtig:</b> Jede Person mit dem Familien-Link, den du danach bekommst, kann euren Wochenplan und die Einkaufsliste sehen und ändern. Teilt ihn nur mit eurer Familie.</div>
     <div class="bar" style="margin:14px 0"><button class="btn primary" id="quickShare">Gemeinsamen Plan starten</button></div>
     <p class="sub">Dein aktueller Plan wird übernommen. Danach bekommst du einen Einladungslink für die anderen Handys. Jede Familie hat ihren eigenen, privaten Plan.</p>
     <div class="help faq-sync">

diff --git a/info.html b/info.html
@@ -28,7 +28,7 @@
 {"@type":"Question","name":"Kann ich die App auf dem Handy installieren?","acceptedAnswer":{"@type":"Answer","text":"Ja. Öffne wasessenwir.at im Browser und wähle „Zum Startbildschirm hinzufügen“ (iPhone: Teilen-Menü, Android: Browser-Menü). Nach zweimaligem Öffnen mit Netz startet sie auch ohne Empfang."}},
 {"@type":"Question","name":"Wie funktioniert die Einkaufsliste?","acceptedAnswer":{"@type":"Answer","text":"Aus den geplanten Gerichten werden die Zutaten zusammengezählt, auf die Personenzahl umgerechnet und nach Supermarkt-Abteilungen sortiert. Was ihr schon zuhause habt, könnt ihr von der Liste nehmen – einmalig oder dauerhaft."}},
 {"@type":"Question","name":"Für wen ist die App gedacht?","acceptedAnswer":{"@type":"Answer","text":"Für Familien, die unter der Woche schnell kochen wollen und wenig Fleisch essen. Die Rezepte sind alltagstauglich und kindertauglich."}},
-{"@type":"Question","name":"Kann ich einstellen, was wir essen und was nicht?","acceptedAnswer":{"@type":"Answer","text":"Ja. In den Einstellungen legst du Personenzahl, Allergene, Kochzeit unter der Woche und wie oft es Fleisch oder Fisch geben darf fest. Zutaten, die ihr nicht mögt, trägst du bei „Mögen wir nicht“ ein. Solche Gerichte werden dann nicht mehr vorgeschlagen."}},
+{"@type":"Question","name":"Kann ich einstellen, was wir essen und was nicht?","acceptedAnswer":{"@type":"Answer","text":"Ja. In den Einstellungen legst du fest, wie viele Erwachsene und Kinder mitessen, dazu Allergene, Kochzeit unter der Woche und wie oft es Fleisch oder Fisch geben darf fest. Zutaten, die ihr nicht mögt, trägst du bei „Mögen wir nicht“ ein. Solche Gerichte werden dann nicht mehr vorgeschlagen."}},
 {"@type":"Question","name":"Kann ich nach Zeit oder Vorlieben filtern?","acceptedAnswer":{"@type":"Answer","text":"Ja. Unter Ideen filterst du zum Beispiel nach Kochzeit, vegetarisch, Ofengericht, ein Topf oder Budget."}},
 {"@type":"Question","name":"Was passiert, wenn mein Handy kaputtgeht?","acceptedAnswer":{"@type":"Answer","text":"Mit gemeinsamem Plan öffnest du auf dem neuen Handy einfach den Familien-Link. Ohne gemeinsamen Plan lädst du die Sicherung aus den Einstellungen auf dem neuen Handy."}},
 {"@type":"Question","name":"Sieht mein Partner meine Änderungen?","acceptedAnswer":{"@type":"Answer","text":"Ja, sobald ihr den gemeinsamen Plan nutzt. Änderungen am Wochenplan, an der Einkaufsliste und an den Bewertungen erscheinen automatisch auf allen verbundenen Handys. Der Vorrat wird ebenfalls geteilt. Filter, Allergene und Vorlieben gelten standardmäßig nur auf dem eigenen Handy; mit einem Schalter in den Einstellungen lassen sie sich ebenfalls teilen."}},
@@ -103,7 +103,7 @@ a{color:var(--basil)}footer{margin-top:40px;font-size:14px;color:var(--muted)}
 
 <h2>Häufige Fragen</h2>
 <details><summary>Für wen ist die App gedacht?</summary><p>Für Familien, die unter der Woche schnell kochen wollen und wenig Fleisch essen. Die Rezepte sind alltagstauglich und kindertauglich.</p></details>
-<details><summary>Kann ich einstellen, was wir essen und was nicht?</summary><p>Ja. In den Einstellungen legst du Personenzahl, Allergene, Kochzeit unter der Woche und wie oft es Fleisch oder Fisch geben darf fest. Zutaten, die ihr nicht mögt, trägst du bei „Mögen wir nicht“ ein. Solche Gerichte werden dann nicht mehr vorgeschlagen.</p></details>
+<details><summary>Kann ich einstellen, was wir essen und was nicht?</summary><p>Ja. In den Einstellungen legst du fest, wie viele Erwachsene und Kinder mitessen, dazu Allergene, Kochzeit unter der Woche und wie oft es Fleisch oder Fisch geben darf fest. Zutaten, die ihr nicht mögt, trägst du bei „Mögen wir nicht“ ein. Solche Gerichte werden dann nicht mehr vorgeschlagen.</p></details>
 <details><summary>Kann ich nach Zeit oder Vorlieben filtern?</summary><p>Ja. Unter Ideen filterst du zum Beispiel nach Kochzeit, vegetarisch, Ofengericht, ein Topf oder Budget.</p></details>
 <details><summary>Was koche ich, wenn mein Kind nur wenige Gerichte mag?</summary><p>Unter Ideen zeigt der Filter „Kinderliebling“ milde, kindertaugliche Gerichte. Mit 👍 und 👎 im Rezept merkt sich die App, was bei euch ankommt, und schlägt Gutes öfter vor. Scharfes ist in den Rezepten separat gehalten, sodass die Erwachsenen nachwürzen können.</p></details>
 <details><summary>Wie plane ich, wenn wir beide arbeiten?</summary><p>Stelle in den Einstellungen die Kochzeit unter der Woche ein, zum Beispiel auf 20 oder 30 Minuten. „Woche planen“ schlägt dann für Montag bis Freitag nur schnelle Gerichte vor, am Wochenende darf es aufwendiger sein. Gerichte zum Vorkochen und Einfrieren findest du im Filter „Zeit & Alltag“.</p></details>
@@ -112,7 +112,7 @@ a{color:var(--basil)}footer{margin-top:40px;font-size:14px;color:var(--muted)}
 <details><summary>Was kostet die App?</summary><p>Nichts – sie ist kostenlos und ohne Werbung.</p></details>
 <details><summary>Was passiert, wenn mein Handy kaputtgeht?</summary><p>Mit gemeinsamem Plan öffnest du auf dem neuen Handy einfach den Familien-Link. Ohne gemeinsamen Plan lädst du die Sicherung aus den Einstellungen auf dem neuen Handy.</p></details>
 <details><summary>Sieht mein Partner meine Änderungen?</summary><p>Ja, sobald ihr den gemeinsamen Plan nutzt. Änderungen am Wochenplan, an der Einkaufsliste und an den Bewertungen erscheinen automatisch auf allen verbundenen Handys. Der Vorrat wird ebenfalls geteilt. Filter, Allergene und Vorlieben gelten standardmäßig nur auf dem eigenen Handy; mit einem Schalter in den Einstellungen lassen sie sich ebenfalls teilen.</p></details>
-<details><summary>Für wie viele Personen sind die Mengen?</summary><p>Standardmäßig für 3 Personen (2 Erwachsene + 1 Kind). In den Einstellungen stellst du eure Personenzahl ein, alle Mengen rechnen sich um.</p></details>
+<details><summary>Für wie viele Personen sind die Mengen?</summary><p>Standardmäßig für 3 Personen (2 Erwachsene + 1 Kind). In den Einstellungen gibst du Erwachsene und Kinder getrennt an, alle Mengen rechnen sich um. Ein Kind zählt dabei wie ein Erwachsener.</p></details>
 <details><summary>Kann ich eigene Rezepte hinzufügen?</summary><p>Ja: selbst eingeben oder als Foto/Link einsenden.</p></details>
 
 <h2>Über diese Seite</h2>
